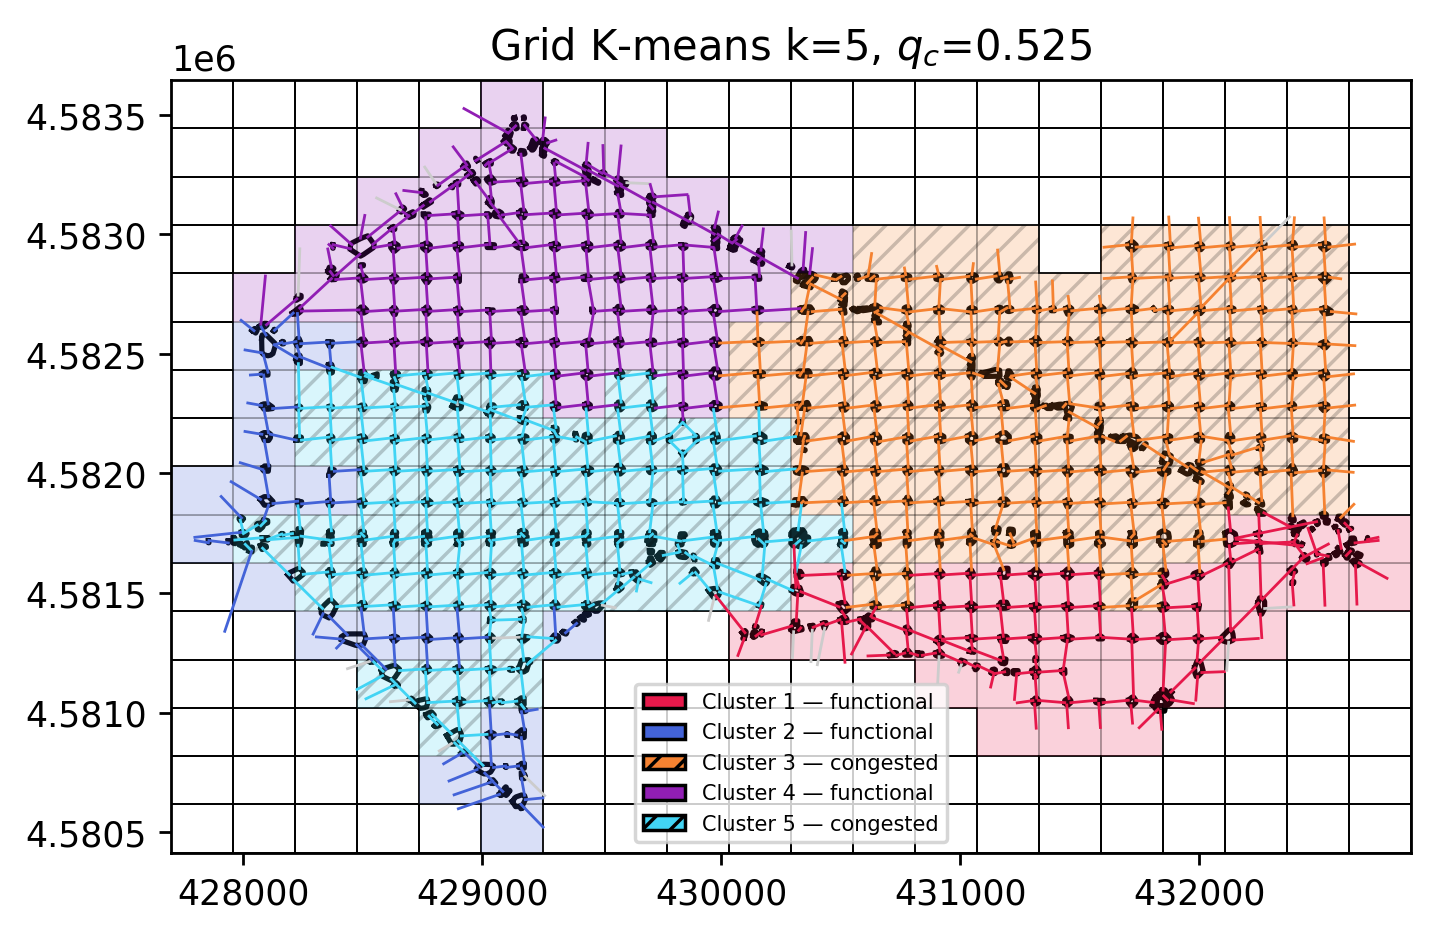
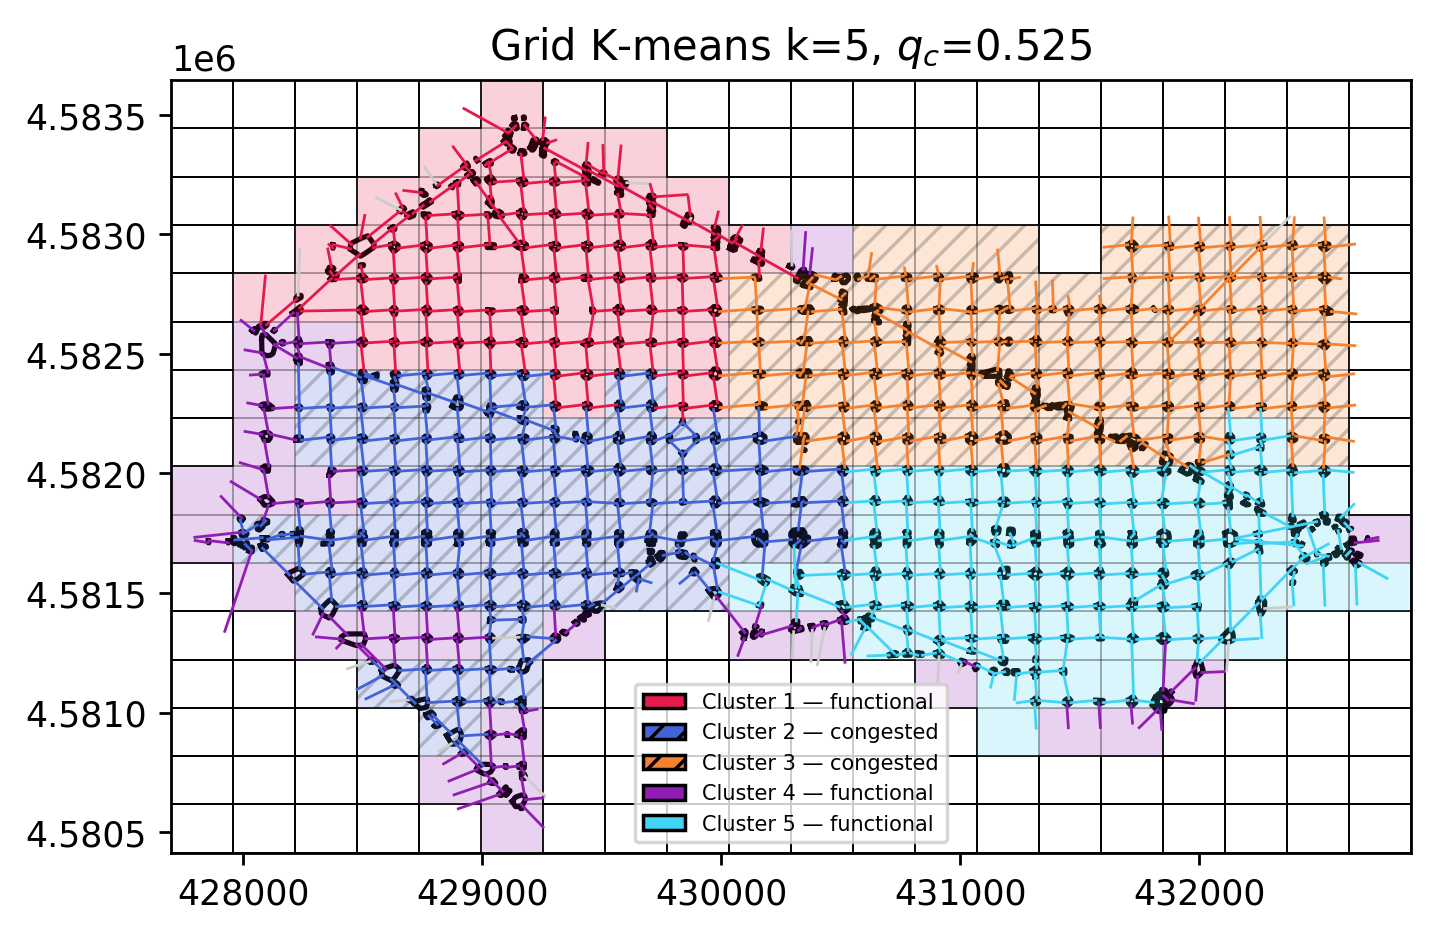
Same standardisation for grid_kmeans and kmeans

Changed region(s): [[0.1226, 0.1239, 0.9812, 0.8675], [0.5826, 0.8675, 0.6746, 0.8985]]

diff --git a/main.py b/main.py
@@ -346,92 +346,92 @@ if __name__ == "__main__":
 
 
 
-### Graphs for sessions     
+# ### Graphs for sessions     
 
-if True:
-    s_min = 0
-    s_max = 100
+# if True:
+#     s_min = 0
+#     s_max = 100
     
-    # 5 clusters, spawns from grid clust, total average
-    kmeans_clustering(
-        n_clusters=len(spawns_grid),
-        name="kmeans_speed_clusters_bottlenecks_sessions/5_grid_clust_spawn_average",
-        spatial_weight=1,
-        dynamic_weight=1,
-        init_links=spawns_grid,
-        timeframe=None,
-        session_min=s_min,
-        session_max=s_max
-    )     
+#     # 5 clusters, spawns from grid clust, total average
+#     kmeans_clustering(
+#         n_clusters=len(spawns_grid),
+#         name="kmeans_speed_clusters_bottlenecks_sessions/5_grid_clust_spawn_average",
+#         spatial_weight=1,
+#         dynamic_weight=1,
+#         init_links=spawns_grid,
+#         timeframe=None,
+#         session_min=s_min,
+#         session_max=s_max
+#     )     
     
-    s_min = 1
-    s_max = 20
+#     s_min = 1
+#     s_max = 20
     
-    # 5 clusters, spawns from grid clust
-    run_kmeans_graph(
-        n_clusters=len(spawns_grid),
-        name="kmeans_speed_clusters_bottlenecks_sessions/5_grid_clust_spawn",
-        init_links=spawns_grid,
-        timeframe=timesteps,
-        cluster_colors=cluster_colors[len(spawns_grid)],
-        session_min=s_min,
-        session_max=s_max
-    ) 
+#     # 5 clusters, spawns from grid clust
+#     run_kmeans_graph(
+#         n_clusters=len(spawns_grid),
+#         name="kmeans_speed_clusters_bottlenecks_sessions/5_grid_clust_spawn",
+#         init_links=spawns_grid,
+#         timeframe=timesteps,
+#         cluster_colors=cluster_colors[len(spawns_grid)],
+#         session_min=s_min,
+#         session_max=s_max
+#     ) 
     
-    # 7 No lower right
-    run_kmeans_graph(
-        n_clusters=len(bottlenecks_no_lr),
-        name="kmeans_speed_clusters_bottlenecks_sessions/7-no_lr",
-        init_links=bottlenecks_no_lr,
-        timeframe=timesteps,
-        cluster_colors=cluster_colors[len(bottlenecks_no_lr)],
-        session_min=s_min,
-        session_max=s_max
-    )
+#     # 7 No lower right
+#     run_kmeans_graph(
+#         n_clusters=len(bottlenecks_no_lr),
+#         name="kmeans_speed_clusters_bottlenecks_sessions/7-no_lr",
+#         init_links=bottlenecks_no_lr,
+#         timeframe=timesteps,
+#         cluster_colors=cluster_colors[len(bottlenecks_no_lr)],
+#         session_min=s_min,
+#         session_max=s_max
+#     )
     
-    # 7 Clusters no middle left
-    mean_speed_time = run_kmeans_graph(
-        n_clusters=len(bottlenecks1[:-1]),
-        name="kmeans_speed_clusters_bottlenecks_sessions/7-no_ml",
-        init_links=bottlenecks1[:-1],
-        timeframe=timesteps,
-        cluster_colors=cluster_colors[len(bottlenecks1[:-1])],
-        session_min=s_min,
-        session_max=s_max
-    )
+#     # 7 Clusters no middle left
+#     mean_speed_time = run_kmeans_graph(
+#         n_clusters=len(bottlenecks1[:-1]),
+#         name="kmeans_speed_clusters_bottlenecks_sessions/7-no_ml",
+#         init_links=bottlenecks1[:-1],
+#         timeframe=timesteps,
+#         cluster_colors=cluster_colors[len(bottlenecks1[:-1])],
+#         session_min=s_min,
+#         session_max=s_max
+#     )
     
-    # 8 bottlenecks1
-    run_kmeans_graph(
-        n_clusters=len(bottlenecks1),
-        name="kmeans_speed_clusters_bottlenecks_sessions/8",
-        init_links=bottlenecks1,
-        timeframe=timesteps,
-        cluster_colors=cluster_colors[len(bottlenecks1)],
-        session_min=s_min,
-        session_max=s_max
-    )
+#     # 8 bottlenecks1
+#     run_kmeans_graph(
+#         n_clusters=len(bottlenecks1),
+#         name="kmeans_speed_clusters_bottlenecks_sessions/8",
+#         init_links=bottlenecks1,
+#         timeframe=timesteps,
+#         cluster_colors=cluster_colors[len(bottlenecks1)],
+#         session_min=s_min,
+#         session_max=s_max
+#     )
 
-    # 9 mixed2, middle left
-    run_kmeans_graph(
-        n_clusters=len(mixed2),
-        name="kmeans_speed_clusters_bottlenecks_sessions/9-middle-left",
-        init_links=mixed2,
-        timeframe=timesteps,
-        cluster_colors=cluster_colors[len(mixed2)],
-        session_min=s_min,
-        session_max=s_max
-    )    
+#     # 9 mixed2, middle left
+#     run_kmeans_graph(
+#         n_clusters=len(mixed2),
+#         name="kmeans_speed_clusters_bottlenecks_sessions/9-middle-left",
+#         init_links=mixed2,
+#         timeframe=timesteps,
+#         cluster_colors=cluster_colors[len(mixed2)],
+#         session_min=s_min,
+#         session_max=s_max
+#     )    
 
-    # 9 mixed1, middle up
-    run_kmeans_graph(
-        n_clusters=len(mixed1),
-        name="kmeans_speed_clusters_bottlenecks_sessions/9-middle-up",
-        init_links=mixed1,
-        timeframe=timesteps,
-        cluster_colors=cluster_colors[len(mixed1)],
-        session_min=s_min,
-        session_max=s_max
-    )
+#     # 9 mixed1, middle up
+#     run_kmeans_graph(
+#         n_clusters=len(mixed1),
+#         name="kmeans_speed_clusters_bottlenecks_sessions/9-middle-up",
+#         init_links=mixed1,
+#         timeframe=timesteps,
+#         cluster_colors=cluster_colors[len(mixed1)],
+#         session_min=s_min,
+#         session_max=s_max
+#     )
    
 
     

diff --git a/percolation/maps.py b/percolation/maps.py
@@ -10,8 +10,9 @@ import os
 import numpy as np
 import matplotlib.pyplot as plt
 import matplotlib.patches as patches
-from scipy.spatial.distance import cdist
 
+from scipy.spatial.distance import cdist
+from sklearn.preprocessing import StandardScaler
 
 from config import DL, links, LOCAL_FIGURE, NODATA_COLOR
 from network.draw import sublink, polyg
@@ -582,10 +583,12 @@ def grid_clust_kmeans(xdiv=20, ydiv=16, k=5, qc=None, percentile=65,
     spd_min   = cells["cell_avg_speed"].min()
     spd_range = cells["cell_avg_speed"].max() - spd_min or 1.0
     X = np.column_stack([
-        cells["cell_x"] / max(xdiv - 1, 1),
-        cells["cell_y"] / max(ydiv - 1, 1),
-        (cells["cell_avg_speed"] - spd_min) / spd_range,
+        cells["cell_x"].to_numpy(),
+        cells["cell_y"].to_numpy(),
+        cells["cell_avg_speed"].to_numpy(),
     ])
+
+    X = StandardScaler().fit_transform(X)
 
     n_clusters = min(k, len(cells))
     km = KMeans(n_clusters=n_clusters, random_state=0, n_init=10, init="k-means++")
